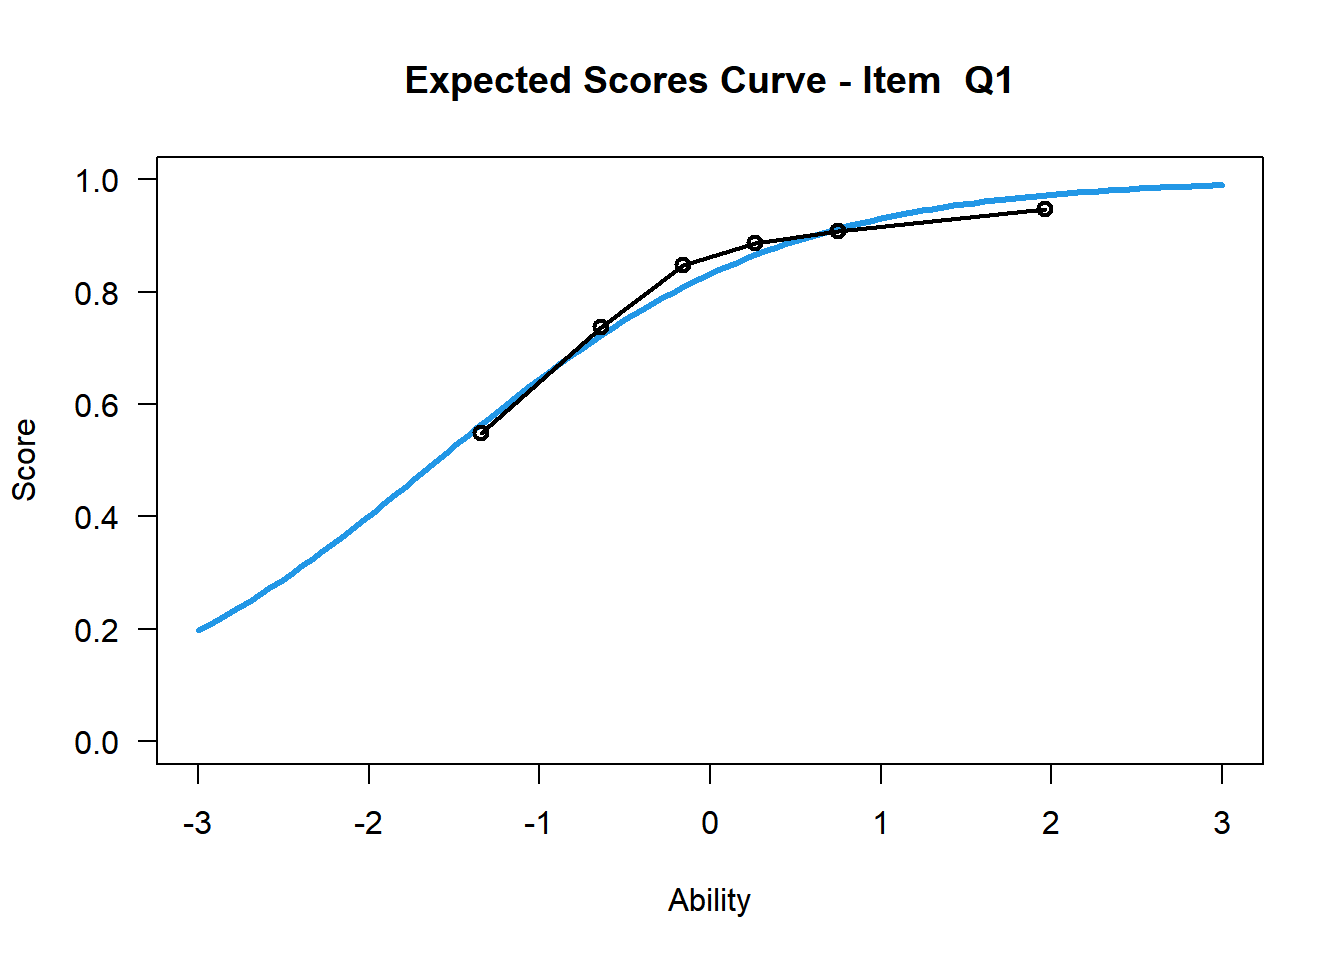
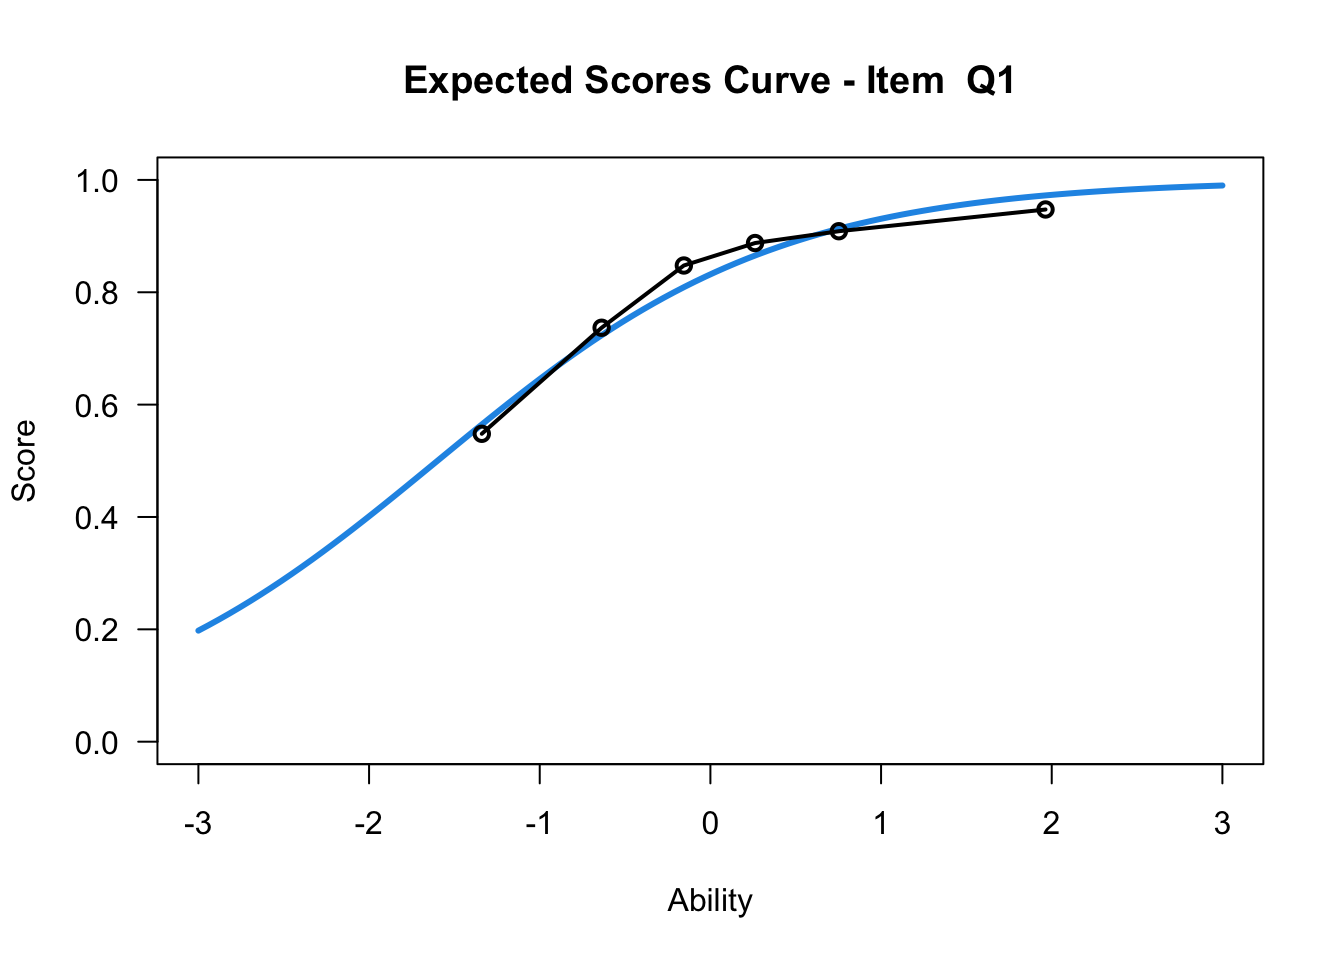
1

diff --git a/docs/irt.html b/docs/irt.html
@@ -11,7 +11,7 @@
 
 
 
-<title>irt.knit</title>
+<title>Item Response Theory</title>
 
 <script src="site_libs/header-attrs-2.11/header-attrs.js"></script>
 <script src="site_libs/jquery-3.6.0/jquery-3.6.0.min.js"></script>
@@ -341,18 +341,17 @@ div.tocify {
 
 
 
+<h1 class="title toc-ignore">Item Response Theory</h1>
 
 </div>
 
 
-<div id="item-response-theory" class="section level2">
-<h2>Item Response Theory</h2>
-<div id="item-difficulty" class="section level3">
-<h3>Item Difficulty</h3>
+<div id="item-difficulty" class="section level2">
+<h2>Item Difficulty</h2>
 <p>答对率法：传统方法，难度会因为样本不一样而改变</p>
 </div>
-<div id="univaraite-item-response-theory-one-parameter-logistic-model" class="section level3">
-<h3>Univaraite Item Response Theory (One-parameter Logistic Model)</h3>
+<div id="univaraite-item-response-theory-one-parameter-logistic-model" class="section level2">
+<h2>Univaraite Item Response Theory (One-parameter Logistic Model)</h2>
 <p>逻辑曲线模拟试题难度 (0,1 response)</p>
 <p>Logistic Cure or Item characteristic cure (ICC), is a function relating the probability of correct response to the ability scale.</p>
 <p><span class="math display">\[P_i(\theta)=P(U_i=1|\theta)\]</span></p>
@@ -363,7 +362,6 @@ div.tocify {
 <p><span class="math display">\[P_1(\theta)=\frac{e^{\theta+1}}{1+e^{\theta+1}}, \quad P_2(\theta)=\frac{e^{\theta-1}}{1+e^{\theta-1}}\]</span> 一条逻辑曲线就是一套试题</p>
 <p>When <span class="math inline">\(\theta=b_i\)</span>, we say that the ability match the difficulty of the tests and we say <span class="math inline">\(P_i=0.5\)</span>.</p>
 <p>In practice, we set <span class="math inline">\(b_i \in (-3,3)\)</span>. The larger <span class="math inline">\(b_i\)</span>, the harder item.</p>
-</div>
 <div id="item-person-map" class="section level3">
 <h3>Item-person Map</h3>
 <p>把学生能力和试题对比，差生答对难题的概率很低</p>
@@ -440,7 +438,7 @@ library(TAM)
 library(stringi)
 library(tidyverse)
 library(readxl)
-setwd(&quot;~/Item_Repsone_Theoryu&quot;)
+#setwd(&quot;~/Item_Repsone_Theoryu&quot;)
 data1&lt;-read_excel(&#39;mth017_mid.xlsx&#39;)
 data1&lt;-data1 %&gt;% select(2:29)
 data2&lt;- apply(data1,2,function(x) str_sub(x,-1,-1))
@@ -552,7 +550,7 @@ logit1&lt;-tam(CTT_score$scored)</code></pre>
 ## Infit   Infit 0.9975171 0.07384753
 ## 
 ## $time
-## [1] &quot;2021-12-31 16:44:55 CST&quot; &quot;2021-12-31 16:44:55 CST&quot;
+## [1] &quot;2022-01-01 03:03:17 CST&quot; &quot;2022-01-01 03:03:17 CST&quot;
 ## 
 ## $CALL
 ## msq.itemfit(object = logit1)
@@ -570,7 +568,48 @@ logit1&lt;-tam(CTT_score$scored)</code></pre>
 <p><img src="irt_files/figure-html/unnamed-chunk-5-1.png" width="672" /></p>
 <pre><code>## ....................................................
 ##  Plots exported in png format into folder:
-##  C:/Users/mu.he/Documents/Item_Repsone_Theoryu/Plots</code></pre>
+##  /Users/yuexuezhang/Documents/Item Response Theory/Item_Repsone_Theoryu/Plots</code></pre>
+<p><em>Two Parameter IRT</em></p>
+<pre class="r"><code>logit2&lt;-tam.mml.2pl(CTT_score$scored)</code></pre>
+<pre class="r"><code>logit2$item</code></pre>
+<pre><code>##     item    N         M    xsi.item  AXsi_.Cat1 B.Cat1.Dim1
+## Q1    Q1 1019 0.7998037 -1.60381101 -1.60381101   0.9007187
+## Q2    Q2 1019 0.6790972 -0.78235045 -0.78235045   0.4302560
+## Q3    Q3 1019 0.8400393 -1.67493255 -1.67493255   0.2209369
+## Q4    Q4 1019 0.7595682 -1.21737246 -1.21737246   0.5178603
+## Q5    Q5 1019 0.6830226 -0.84523068 -0.84523068   0.6661962
+## Q6    Q6 1019 0.6584887 -0.77225130 -0.77225130   0.8883296
+## Q7    Q7 1019 0.8763494 -2.18232206 -2.18232206   0.8048515
+## Q8    Q8 1019 0.7762512 -1.87736494 -1.87736494   1.7506024
+## Q9    Q9 1019 0.8832188 -2.72542893 -2.72542893   1.5053565
+## Q10  Q10 1019 0.8949951 -2.72739891 -2.72739891   1.3265451
+## Q11  Q11 1019 0.9057900 -3.10171074 -3.10171074   1.6050825
+## Q12  Q12 1019 0.7713445 -1.65843064 -1.65843064   1.4237493
+## Q13  Q13 1019 0.6790972 -0.77514562 -0.77514562   0.3790075
+## Q14  Q14 1019 0.8763494 -2.80417862 -2.80417862   1.7031549
+## Q15  Q15 1019 0.8645731 -2.36251740 -2.36251740   1.2899213
+## Q16  Q16 1019 0.3002944  1.00989988  1.00989988   0.9982508
+## Q17  Q17 1019 0.6486752 -0.76601362 -0.76601362   1.0711876
+## Q18  Q18 1019 0.5976447 -0.50572989 -0.50572989   1.1007193
+## Q19  Q19 1019 0.5417076 -0.23738822 -0.23738822   1.2571553
+## Q20  Q20 1019 0.4916585  0.03366769  0.03366769   0.2793225
+## Q21  Q21 1019 0.2865554  1.26136773  1.26136773   1.4974795
+## Q22  Q22 1019 0.7134446 -1.10583136 -1.10583136   1.0118460
+## Q23  Q23 1017 0.7738446 -1.43072636 -1.43072636   0.9095113
+## Q24  Q24 1017 0.5585054 -0.26842353 -0.26842353   0.7575731
+## Q25  Q25 1017 0.4788594  0.09734073  0.09734073   1.5325850
+## Q26  Q26 1017 0.2487709  1.13862560  1.13862560   0.3651024
+## Q27  Q27 1010 0.9386139 -3.42856477 -3.42856477   1.3780092
+## Q28  Q28 1001 0.6313686 -0.60773020 -0.60773020   0.8094293</code></pre>
+<ul>
+<li><p>AXsi_.Cat1 is the difficulty level</p></li>
+<li><p>B.Cat1.Dim1 is the discrimination level</p></li>
+</ul>
+<pre class="r"><code>par(mfrow=c(2,2))
+for(i in 1:4){
+plot(logit2,items=i)
+}</code></pre>
+<p><img src="irt_files/figure-html/unnamed-chunk-8-1.png" width="672" /></p>
 </div>
 
 

diff --git a/docs/cdms.html b/docs/cdms.html
@@ -362,28 +362,28 @@ div.tocify {
 </thead>
 <tbody>
 <tr class="odd">
-<td>7+2</td>
-<td>1</td>
-<td>0</td>
-<td>0</td>
+<td><span class="math inline">\(7+2\)</span></td>
+<td><span class="math inline">\(1\)</span></td>
+<td><span class="math inline">\(0\)</span></td>
+<td><span class="math inline">\(0\)</span></td>
 </tr>
 <tr class="even">
-<td>3+4-2</td>
-<td>1</td>
-<td>1</td>
-<td>0</td>
+<td><span class="math inline">\(3+4-2\)</span></td>
+<td><span class="math inline">\(1\)</span></td>
+<td><span class="math inline">\(1\)</span></td>
+<td><span class="math inline">\(0\)</span></td>
 </tr>
 <tr class="odd">
 <td><span class="math inline">\((5\times 2)+4\)</span></td>
-<td>1</td>
-<td>0</td>
-<td>1</td>
+<td><span class="math inline">\(1\)</span></td>
+<td><span class="math inline">\(0\)</span></td>
+<td><span class="math inline">\(1\)</span></td>
 </tr>
 <tr class="even">
 <td><span class="math inline">\((3\times 2)-2\)</span></td>
-<td>0</td>
-<td>1</td>
-<td>1</td>
+<td><span class="math inline">\(0\)</span></td>
+<td><span class="math inline">\(1\)</span></td>
+<td><span class="math inline">\(1\)</span></td>
 </tr>
 </tbody>
 </table>
